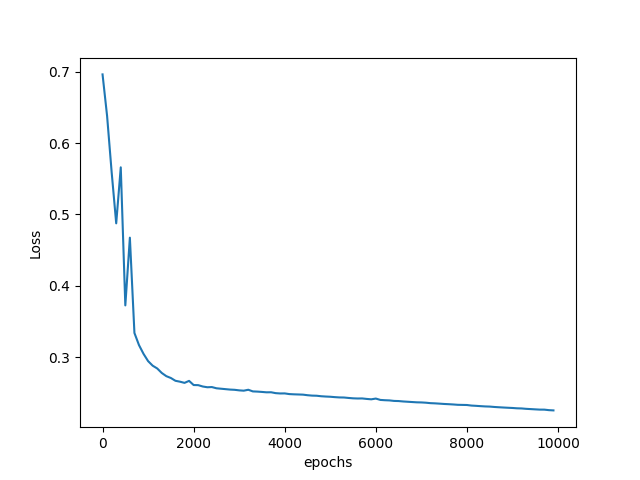
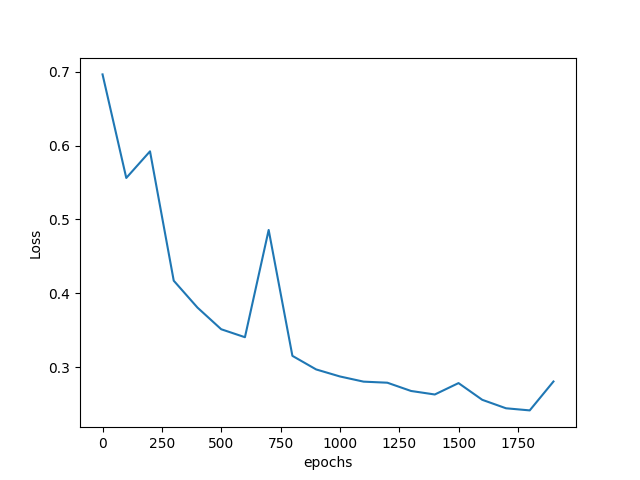
Vectorization in Predict method

diff --git a/main.py b/main.py
@@ -130,18 +130,12 @@ class NeuralNetwork:
 
     def predict(self, x, threshold):
 
-        m = x.shape[1]
-        y_predicted = np.zeros((1, m))
-
         probablity = sigmoid(np.dot(self.w2.T, relu(np.dot(self.w1.T, x))))
 
-        for i in range(probablity.shape[1]):
-            if probablity[0, i] >= threshold:
-                y_predicted[:, i] = 1
-            else:
-                y_predicted[:, i] = 0
+        probablity[probablity <= threshold] = 0
+        probablity[probablity > threshold] = 1
 
-        y_predicted = y_predicted.astype(int)
+        y_predicted = probablity.astype(int)
 
         return y_predicted
 
@@ -206,7 +200,7 @@ if __name__ == '__main__':
     X_train = X_train_flatten / 255
     X_test = X_test_flatten / 255
 
-    model = NeuralNetwork(X_train, y_train, X_test, y_test, epochs=10000, learning_rate=0.01)
+    model = NeuralNetwork(X_train, y_train, X_test, y_test, epochs=2000, learning_rate=0.01)
     model.fit()
 
     y_predicted = model.predict(X_test, threshold=0.3)
